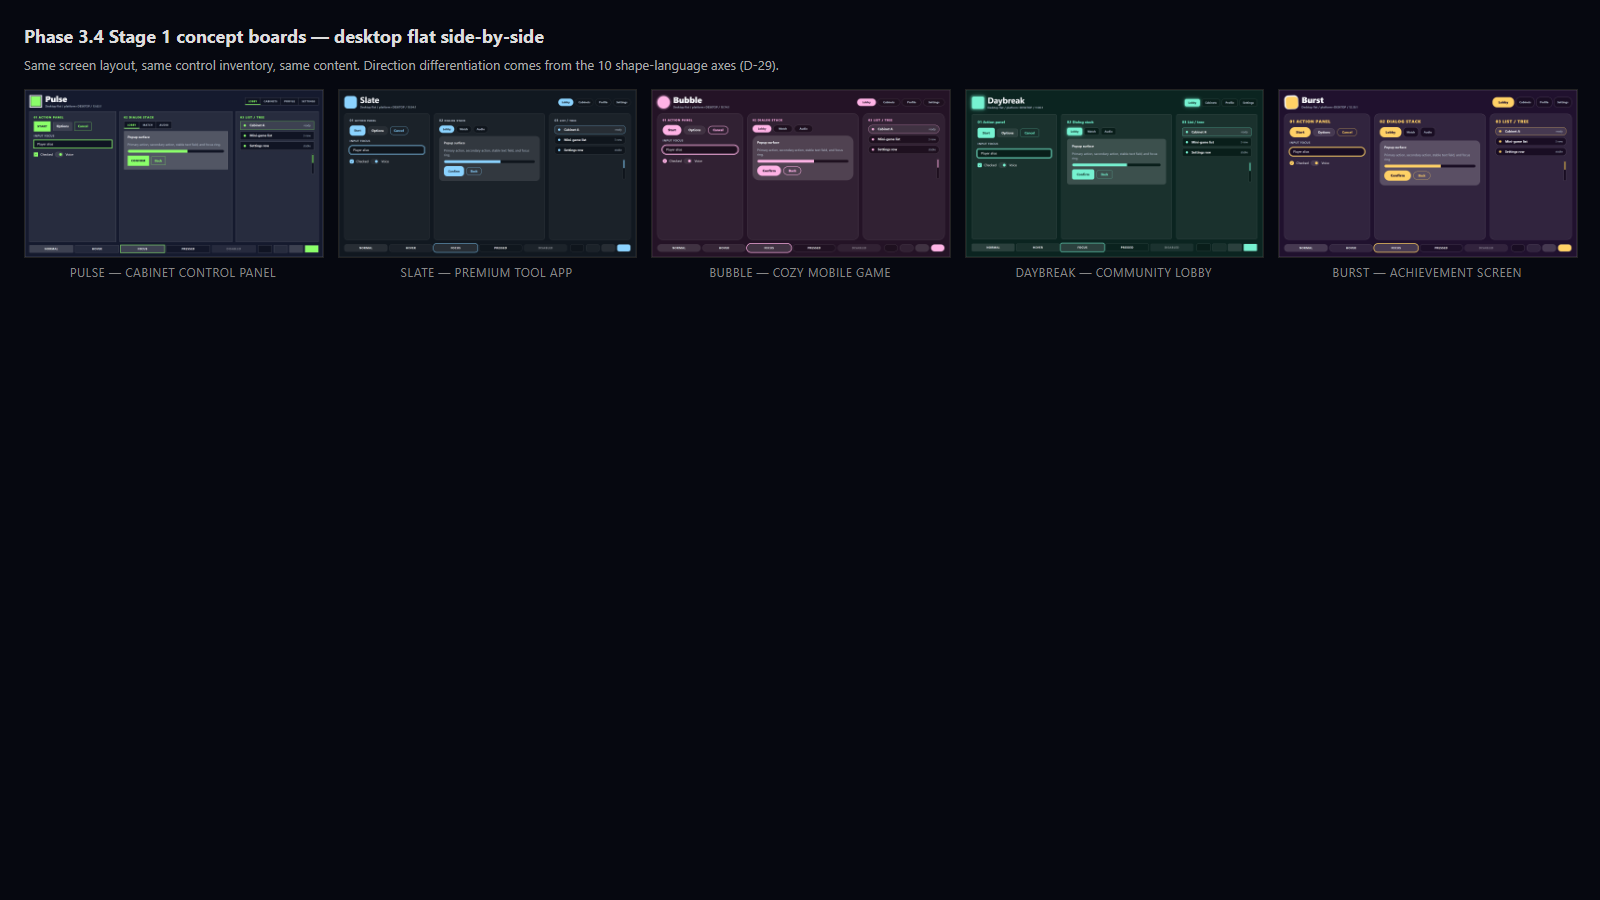
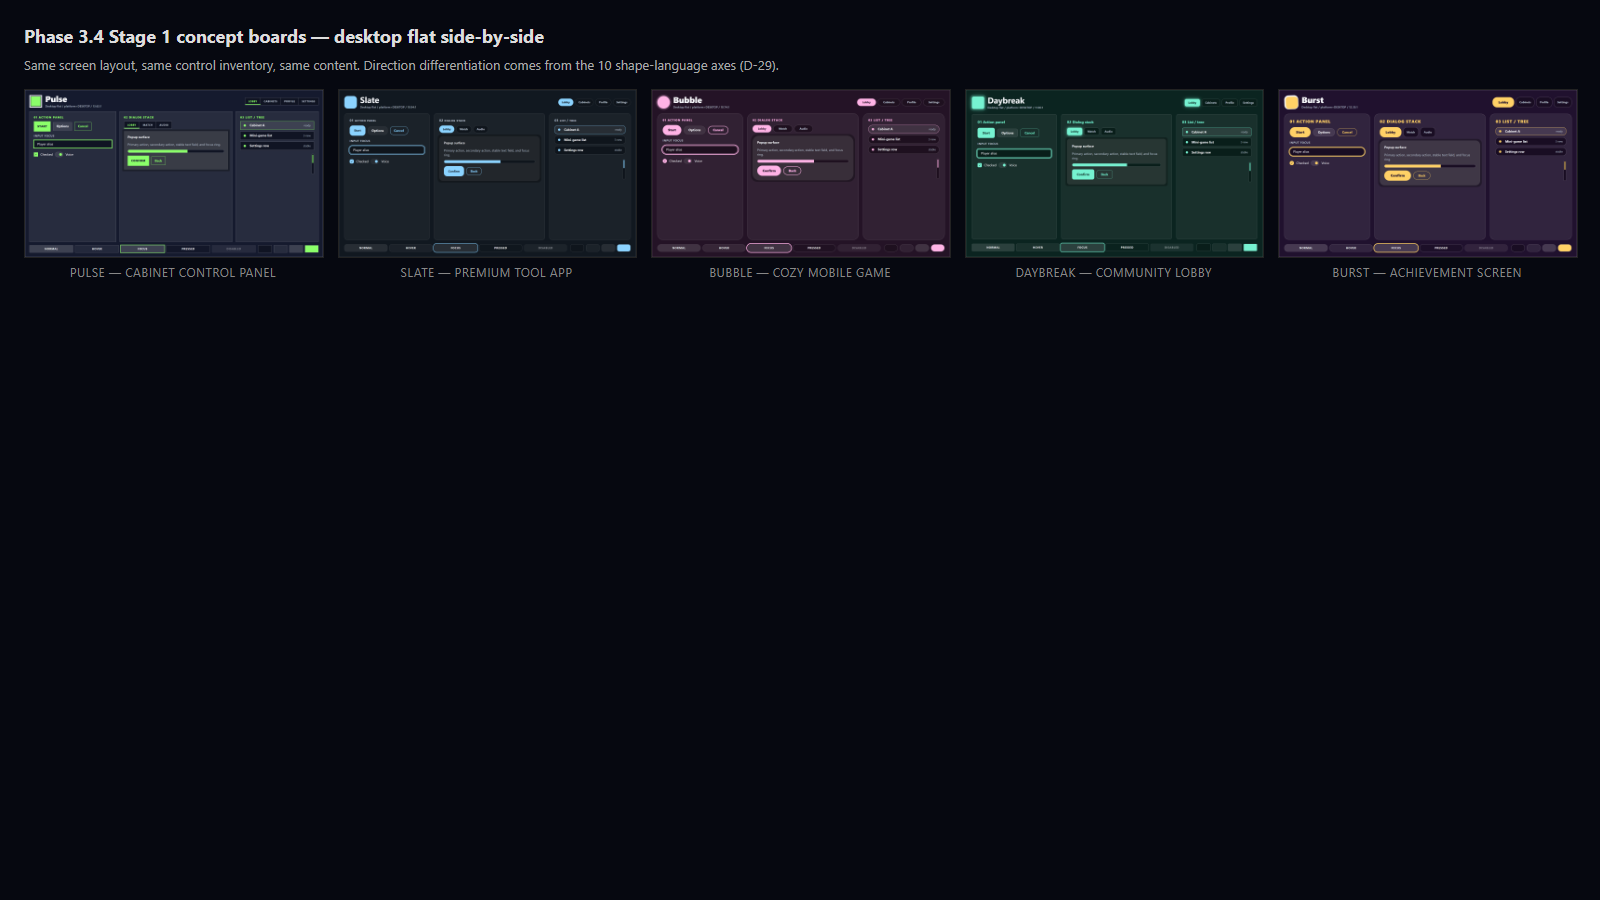
feat(03.4-02): mockup revision 4 — selective alpha for Slate + Daybreak mood tuning
Per MOCKUP-REVISION-4-HANDOFF.md. Adds surface alpha (translucency)
where it enhances each direction's personality, plus a universal modal
scrim that all five directions get for free. Layered on top of rev-3's
color-tinted offset fix; rev-3 had to land first because alpha tuning
on top of black-edged panels would not have fixed the panel issue.

Tier 1 — universal modal scrim (all 5 directions).
.nc-art-dialog::before pseudo-element with inset: -8px,
rgba(0, 0, 0, 0.30), border-radius: inherit, z-index: -1, and
pointer-events: none. .nc-art-dialog gets position: relative +
isolation: isolate to establish a stacking context so the negative
z-index stays contained inside the dialog and does not escape to the
parent panel. The scrim renders in flat AND raised modes — it
represents modal layering, not raised lift. The literal full-page
50%-black scrim is not appropriate at this mockup level because the
dialog lives inside the dialog-stack panel, not as a true modal
overlay; the inset version is the pragmatic mockup-level analogue.
NOT direction-specific — Tier 1 is universal.

Tier 2 — per-direction surface alpha (Slate + Daybreak only).
New axis_11_surface_alpha: { popup_surface, panels, buttons, chrome }
block in each direction's shape_language, declared in
data/directions.json AND the JS NEOCADE_DIRECTIONS shape mirror. Per
the handoff:
  Pulse:    1.00 / 1.00 / 1.00 / 1.00 — solid (cabinet hardware)
  Slate:    0.92 / 1.00 / 1.00 / 1.00 — iOS-style overlay translucency
[…]

Changed region(s): [[0.8438, 0.1556, 0.9375, 0.2178], [0.6562, 0.1556, 0.75, 0.2178], [0.0625, 0.1244, 0.1562, 0.1867]]

diff --git a/.planning/mockups/3.4/src/neocade-mockups.js b/.planning/mockups/3.4/src/neocade-mockups.js
@@ -47,7 +47,10 @@ const NEOCADE_DIRECTIONS = [
       mark_shape: "square-cabinet-bezel",
       primary_strategy: "bold-accent-fill-dark-text",
       ghost_strategy: "accent-outlined-accent-text",
-      focus_style: "tight-cabinet-ring"
+      focus_style: "tight-cabinet-ring",
+      // Rev-4 axis 11: surface alpha policy. Pulse stays 100% solid —
+      // cabinet hardware, not glass UI.
+      surface_alpha: { popup_surface: 1.00, panels: 1.00, buttons: 1.00, chrome: 1.00 }
     }
   },
   {
@@ -85,7 +88,11 @@ const NEOCADE_DIRECTIONS = [
       mark_shape: "rounded-square",
       primary_strategy: "quiet-pill-primary",
       ghost_strategy: "thin-accent-outline",
-      focus_style: "ios-style-offset"
+      focus_style: "ios-style-offset",
+      // Rev-4 axis 11: 8% bleed-through on popup overlay only — iOS-premium
+      // mood mirrors iOS NavigationBar/Sheet/modal-backdrop translucency
+      // without sliding into glassmorphism (no backdrop blur in StyleBoxFlat).
+      surface_alpha: { popup_surface: 0.92, panels: 1.00, buttons: 1.00, chrome: 1.00 }
     }
   },
   {
@@ -123,7 +130,9 @@ const NEOCADE_DIRECTIONS = [
       mark_shape: "circle-or-squircle",
       primary_strategy: "pillowy-fully-rounded-primary",
       ghost_strategy: "rounded-ghost-thicker-outline",
-      focus_style: "cheerful-chunky-ring"
+      focus_style: "cheerful-chunky-ring",
+      // Rev-4 axis 11: candy is opaque. Translucent candy reads as ice/gelatin.
+      surface_alpha: { popup_surface: 1.00, panels: 1.00, buttons: 1.00, chrome: 1.00 }
     }
   },
   {
@@ -160,7 +169,10 @@ const NEOCADE_DIRECTIONS = [
       mark_shape: "rounded-square-with-halo",
       primary_strategy: "friendly-primary-generous-breathing",
       ghost_strategy: "soft-outline-ghost",
-      focus_style: "airy-fresh-ring-with-mint-halo"
+      focus_style: "airy-fresh-ring-with-mint-halo",
+      // Rev-4 axis 11: airy welcoming-lobby mood. 4% bleed on panels + 10% on
+      // popup overlay reads as airy lift; buttons stay solid for tappability.
+      surface_alpha: { popup_surface: 0.90, panels: 0.96, buttons: 1.00, chrome: 1.00 }
     }
   },
   {
@@ -198,7 +210,10 @@ const NEOCADE_DIRECTIONS = [
       mark_shape: "chunky-asymmetric-badge",
       primary_strategy: "oversized-statement-primary",
       ghost_strategy: "normal-accent-ghost",
-      focus_style: "dramatic-event-ring"
+      focus_style: "dramatic-event-ring",
+      // Rev-4 axis 11: celebration posters are solid. Translucent achievement
+      // surfaces feel weak — personality demands poster-grade opacity.
+      surface_alpha: { popup_surface: 1.00, panels: 1.00, buttons: 1.00, chrome: 1.00 }
     }
   }
 ];
@@ -287,6 +302,19 @@ function mix(a, b, amount) {
     g: ca.g + (cb.g - ca.g) * amount,
     b: ca.b + (cb.b - ca.b) * amount
   });
+}
+
+/**
+ * Returns a CSS rgba() string for `hex` at the given alpha (0..1). Used for
+ * rev-4 axis 11 selective-alpha tokens — Slate's popup overlay 92%, Daybreak's
+ * popup 90% + panels 96%, others 100%. Anything at alpha=1.0 is visually
+ * indistinguishable from the source hex; we still emit rgba() so downstream
+ * CSS uses a single bg-token shape (no branching). See
+ * MOCKUP-REVISION-4-HANDOFF.md "Tier 2 — per-direction subtle alpha".
+ */
+function rgba(hex, alpha) {
+  const { r, g, b } = hexToRgb(hex);
+  return `rgba(${r}, ${g}, ${b}, ${alpha})`;
 }
 
 function luminance(hex) {
@@ -449,6 +477,12 @@ function deriveTokens(direction, platformName, raisedFlag) {
    * recommendation in the handoff). Half-mix with white reads as a 1px lighter
    * top edge — the "inner highlight" you see on the user's PLAY-button reference. */
   const accent_rim = mix(accent, "#ffffff", 0.5);
+  /* Rev-4 axis 11: surface alpha policy. Default to fully solid if a direction
+   * predates the axis (defensive — every direction in v1 declares it). Only
+   * popup_surface and panels currently consume alpha; buttons + chrome are
+   * fixed at 1.0 per handoff (Don't-do list — translucent buttons read as
+   * outlined-ghost variants and conflict with all 5 v1 personalities). */
+  const sa = s.surface_alpha || { popup_surface: 1.0, panels: 1.0, buttons: 1.0, chrome: 1.0 };
 
   return {
     "--base": base,
@@ -462,6 +496,16 @@ function deriveTokens(direction, platformName, raisedFlag) {
     "--surface-high": ramp.surface_high,
     "--surface-overlay": ramp.surface_overlay,
     "--outline": ramp.outline,
+    /* Alpha-aware bg tokens (rev-4 axis 11). Consumed by `.nc-art-card` and
+     * `.nc-art-dialog` to render at the per-direction surface_alpha policy.
+     * The base hex tokens (--surface-panel, --surface-overlay) above remain
+     * available for any rule that needs the SOLID color (e.g., the footer
+     * palette swatches in the artboard, where the swatch shows the color
+     * itself, not the rendered alpha). */
+    "--popup-surface-bg": rgba(ramp.surface_overlay, sa.popup_surface),
+    "--panel-surface-bg": rgba(ramp.surface_panel, sa.panels),
+    "--popup-surface-alpha": String(sa.popup_surface),
+    "--panel-surface-alpha": String(sa.panels),
     /* Per-color offset tokens — each raised element's bottom edge is a darker
      * variant of its own bg color (Issue 2). The legacy --offset alias is
      * retained at the base-darker variant for any rule that has not yet been

diff --git a/.planning/mockups/3.4/src/neocade-mockups.css b/.planning/mockups/3.4/src/neocade-mockups.css
@@ -384,6 +384,13 @@ h3 {
   --surface-panel-offset: #07090e;
   --surface-overlay-offset: #141a23;
   --surface-low-offset: #02030a;
+  /* Rev-4 axis 11 fallbacks (alpha-aware bg tokens). JS overrides per
+   * direction. Defaults are fully-opaque so the artboard renders solid if a
+   * direction predates the axis. */
+  --popup-surface-bg: var(--surface-overlay);
+  --panel-surface-bg: var(--surface-panel);
+  --popup-surface-alpha: 1;
+  --panel-surface-alpha: 1;
   --state-hover: #1c2436;
   --state-pressed: #14202c;
   --disabled-opacity: 0.5;
@@ -685,7 +692,10 @@ h3 {
   min-width: 0;
   border: 1px solid var(--outline);
   border-radius: var(--radius-base);
-  background: var(--surface-panel);
+  /* Rev-4 axis 11: alpha-aware bg. Solid for Pulse/Bubble/Burst (1.00); 96% on
+   * Daybreak (airy lobby bleed); 100% on Slate (panels stay solid, only the
+   * popup overlay translucent). */
+  background: var(--panel-surface-bg);
   padding: var(--density-padding);
 }
 
@@ -944,12 +954,44 @@ h3 {
 }
 
 .nc-art-dialog {
+  /* Rev-4 Tier 1 — universal modal scrim. position: relative + isolation:
+   * isolate establishes a stacking context so the ::before scrim's
+   * z-index: -1 stays contained inside the dialog (does not escape to the
+   * parent panel). */
+  position: relative;
+  isolation: isolate;
   display: grid;
   gap: calc(12px * var(--density-scale));
   border: 1px solid var(--outline);
   border-radius: calc(var(--radius-base) + 2px);
-  background: var(--surface-overlay);
+  /* Rev-4 axis 11: alpha-aware bg. 92% on Slate (iOS-style overlay
+   * translucency), 90% on Daybreak (airy lobby), 100% solid on
+   * Pulse/Bubble/Burst (cabinet/candy/poster metaphors favor opacity). */
+  background: var(--popup-surface-bg);
   padding: calc(var(--density-padding) * 0.85);
+}
+
+/* Universal modal scrim (Rev-4 Tier 1) — applies to ALL 5 directions. Renders
+ * a subtle dark halo behind the dialog at 30% opacity, extending 8px past the
+ * dialog edge into the parent panel padding area. Reads as a "lifted" feel
+ * even in flat mode. The literal full-page scrim is not visually appropriate
+ * here because the dialog lives inside the dialog-stack panel, not as a true
+ * modal overlay; the inset version is the pragmatic mockup-level analogue.
+ *
+ * In raised mode this stacks with the dialog's bottom-edge offset shadow.
+ * The 8px-extending scrim covers the area just past the offset, which reads
+ * as a cohesive "modal lift" rather than two separate shadows.
+ *
+ * NOT direction-specific (handoff: "the scrim is a UNIVERSAL behavior. Don't
+ * add per-direction variation here"). */
+.nc-art-dialog::before {
+  content: "";
+  position: absolute;
+  inset: -8px;
+  background: rgba(0, 0, 0, 0.30);
+  border-radius: inherit;
+  z-index: -1;
+  pointer-events: none;
 }
 
 /* Raised: dialog overlay sits highest in the depth hierarchy. Use a stronger

diff --git a/.planning/mockups/3.4/render-check.md b/.planning/mockups/3.4/render-check.md
@@ -1,5 +1,11 @@
 # Phase 3.4 Render Check
 
+**Status (revision 4, 2026-05-06):** Mockup revision 4 complete per `MOCKUP-REVISION-4-HANDOFF.md` — selective surface alpha for mood tuning (`axis_11_surface_alpha`). Adds a universal modal scrim behind dialogs in all 5 directions (Tier 1) plus per-direction surface alpha for Slate (popup overlay 92%) and Daybreak (popup 90% + panels 96%) — Tier 2. Pulse, Bubble, and Burst stay 100% solid (cabinet/candy/poster metaphors favor opacity). 15 concept PNGs + 2 audit composites re-rendered. All rev-3 + rev-2 decisions stand unchanged.
+
+**Rev-4 scope:**
+- Tier 1 — universal modal scrim. `.nc-art-dialog::before` pseudo-element with `inset: -8px` + `rgba(0, 0, 0, 0.30)` extends a subtle dark halo 8px past the dialog edge into the parent panel padding. `position: relative; isolation: isolate;` on `.nc-art-dialog` establishes the stacking context so `z-index: -1` stays contained. Renders in flat AND raised modes — the scrim represents modal layering, not raised lift. The literal full-page scrim (50% black) is not appropriate at this mockup level because the dialog lives inside the dialog-stack panel; the inset variant is the pragmatic mockup-level analogue.
+- Tier 2 — per-direction surface alpha. New `axis_11_surface_alpha: { popup_surface, panels, buttons, chrome }` block in each direction's `shape_language`. JS emits `--popup-surface-bg: rgba(surface_overlay, popup_alpha)` and `--panel-surface-bg: rgba(surface_panel, panels_alpha)`; CSS rules on `.nc-art-dialog` and `.nc-art-card` consume them. Buttons and chrome are fixed at alpha 1.0 (translucent buttons read as outlined-ghost variants and conflict with all 5 v1 personalities; the state-layer alpha system stays as-is).
+
 **Status (revision 3, 2026-05-06):** Mockup revision 3 complete per `MOCKUP-REVISION-3-HANDOFF.md` — surgical fix for the dark-surface near-black bottom-edge bug introduced by rev-2's `darken()` HSL helper. Surface-colored elements (panels, dialogs, popup overlays, brand-mark badge, state-strip cells, unselected tabs, selected list rows) now correctly land color-tinted offsets in their own hue family. 15 concept PNGs + 2 audit composites re-rendered. All other rev-2 decisions (wider radius spread, broader raised matrix, slideshow, platform sizing, mood differentiation) stand unchanged.
 
 **Rev-3 fix:** Replaced `darken(color, 22%)` with `tintTowardBase(color, base, 0.40)` (= `mix(element_color, page_base, 40%)`) for `--accent-offset`, `--surface-panel-offset`, `--surface-high-offset`, `--surface-overlay-offset`, `--surface-low-offset`. The previous formula floored at HSL lightness 0 on already-dark surfaces (e.g., Bubble's `surface_panel` ≈ L=10%; minus 22 clamps to L=0 → near-black), reading as Neobrutalism — the look the user explicitly rejected. The new formula shifts each element 40% toward the page background, preserving hue at every brightness and never crossing past the base. The legacy `--offset` alias still uses `darken()` for a distinct-from-base sentinel (no CSS rule consumes `var(--offset)` today).
@@ -28,6 +34,8 @@
 | Artboard CSS does NOT hard-code shape tokens | PASS | `.nc-artboard` reads `var(--radius-base)`, `var(--button-pad-h)`, etc.; no `--radius: 12px` literal anywhere on the artboard or board path. |
 | Artboard CSS does NOT hard-code platform sizes | PASS | `.nc-art-button` reads `var(--button-min)`; `.nc-art-input` reads `var(--input-min)`; `.nc-art-list-row` reads `var(--row-min)`; etc. `.nc-artboard.mobile` only overrides physical width/height, not control sizes. |
 | Per-color offset tokens emitted | PASS | `deriveSurfaceRamp()` emits `accent_offset`, `surface_high_offset`, `surface_panel_offset`, `surface_overlay_offset`, `surface_low_offset` via `tintTowardBase(hex, base, 0.40)` (rev-3 — replaces rev-2's `darken()` which clamped to near-black on already-dark surfaces). Each offset is `mix(element_color, page_base, 40%)`, preserving hue at every brightness. |
+| Axis 11 surface alpha emitted (rev-4) | PASS | Every direction declares `axis_11_surface_alpha: { popup_surface, panels, buttons, chrome }` in `data/directions.json` shape_language and the JS shape mirror. `deriveTokens()` emits `--popup-surface-bg: rgba(surface_overlay, popup_alpha)` and `--panel-surface-bg: rgba(surface_panel, panels_alpha)` as inline CSS variables; `.nc-art-card` and `.nc-art-dialog` consume the new bg tokens. Buttons + chrome are fixed at alpha 1.0 per handoff (translucent buttons would conflict with the v1 personalities). |
+| Universal modal scrim emitted (rev-4) | PASS | `.nc-art-dialog::before` pseudo-element with `position: absolute; inset: -8px; background: rgba(0,0,0,0.30); z-index: -1; border-radius: inherit; pointer-events: none;`. `.nc-art-dialog` gets `position: relative; isolation: isolate;` to establish a stacking context so the negative z-index stays contained inside the dialog. Renders in flat AND raised modes (modal layering, not raised lift). |
 | Slideshow component bound | PASS | `concept-gallery.html` includes `<section class="nc-slideshow">`; `bindSlideshow()` wires arrows + keyboard + tabs; image transition is `none !important`. |
 | Flat concept output path | PASS | `concept-image.html?raised=false` renders the flat artboard. |
 | Raised concept output path | PASS | `concept-image.html?raised=true` renders the raised artboard with broad raise matrix and per-color offsets. |
@@ -55,6 +63,7 @@
 | 8 surface ramp | 4 stops, wide spread | strong tonal hierarchy visible |
 | 9 state behavior | hover +6%, pressed -10%, disabled 0.42 | tactile, mechanical |
 | 10 raised offset | primary 3 / tab 2 / row 0 / secondary 1; broad matrix lifts buttons + panels + dialogs + brand mark + tabs + chips + thumb + check + progress | flat-3D depth on every interactable; passive elements stay flat |
+| 11 surface alpha (rev-4) | popup 100% / panels 100% / buttons 100% / chrome 100% — solid | Cabinet hardware is opaque; translucent cabinets would read as futuristic glass UI, not arcade machine |
 
 | Audit row | Result | Note |
 |---|---|---|
@@ -82,6 +91,7 @@
 | 8 surface ramp | 3 stops, narrow spread | calm continuous tonal feel |
 | 9 state behavior | hover +4%, pressed -6%, disabled 0.50 | quiet, not aggressive |
 | 10 raised offset | primary 2 / tab 1 / row 1 / secondary 1; restrained but broad matrix | tool-friendly subtle depth on every interactable |
+| 11 surface alpha (rev-4) | popup 92% / panels 100% / buttons 100% / chrome 100% — iOS-style overlay translucency | Subtle 8% bleed-through visible behind the popup surface only; mirrors iOS NavigationBar/Sheet/modal-backdrop translucency. The premium-tool restraint stays intact because container panels remain solid |
 
 | Audit row | Result | Note |
 |---|---|---|
@@ -109,6 +119,7 @@
 | 8 surface ramp | 3 stops, medium spread | playful soft layers |
 | 9 state behavior | hover +8% (bouncy), pressed -10%, disabled 0.45 | feels alive |
 | 10 raised offset | primary 6 / tab 4 / row 3 / secondary 3 (was 5/3/2/2 in rev 1); broad matrix | "poked-out" tactile depth on every interactive element — the user's PLAY-button reference vibe |
+| 11 surface alpha (rev-4) | popup 100% / panels 100% / buttons 100% / chrome 100% — solid | Candy is opaque; translucent candy reads as ice/gelatin and shifts the mood toward sci-fi/glassmorphism |
 
 | Audit row | Result | Note |
 |---|---|---|
@@ -136,6 +147,7 @@
 | 8 surface ramp | 4 stops, medium spread | airy fresh layers |
 | 9 state behavior | hover +6%, pressed -6%, disabled 0.50 | soft, friendly response |
 | 10 raised offset | primary 3 / tab 2 / row 1 / secondary 1 (was 3/2/0/0 in rev 1); broad matrix | tactile but spare; broader than rev 1 |
+| 11 surface alpha (rev-4) | popup 90% / panels 96% / buttons 100% / chrome 100% — airy lobby | Subtle 4% translucency through the action-panel + dialog-stack + list/tree containers (the dark teal page bleeds through gently); stronger 10% on the popup overlay; buttons stay solid for tappability |
 
 | Audit row | Result | Note |
 |---|---|---|
@@ -163,6 +175,7 @@
 | 8 surface ramp | 4 stops, wide spread | dramatic layered emphasis |
 | 9 state behavior | hover +8%, pressed -12% (bold), disabled 0.45 | strong press feedback |
 | 10 raised offset | primary 5 / tab 3 / row 2 / secondary 2; broad matrix | clear depth hierarchy |
+| 11 surface alpha (rev-4) | popup 100% / panels 100% / buttons 100% / chrome 100% — solid | Celebration posters are solid; translucent achievement surfaces feel weak, not bold — the personality demands poster-grade opacity |
 
 | Audit row | Result | Note |
 |---|---|---|
@@ -224,6 +237,24 @@ Each direction now visibly differentiates desktop and mobile, per Issue 6. The c
 | Bubble | Desktop: 36-44px 26px-rounded chrome with 999px primary pill. Mobile: 48-56px chrome with bigger pill primary at 56px (M3 Extended FAB), chunkier toggles, generous spacing. Mobile-raised primary button pink with darker-pink offset reads decisively as "candy machine" not "Neobrutalism". | PASS |
 | Daybreak | Desktop: 36-44px 8px-rounded chrome with sentence-case kickers. Mobile: 48-56px chrome, brighter mint halos preserved, 56px list rows. Airy density rule (+50% gap) most visible here because of the already-airy base spacing. | PASS |
 | Burst | Desktop: 36-44px chrome with oversized 28px primary radius. Mobile: 48-56px chrome, asymmetric selected tab visibly bigger on mobile due to the size scaling, chunky tilted brand mark unchanged across platforms. Most expressive shape language stays expressive at both sizes. | PASS |
+
+## Surface-Alpha Policy Audit (revision 4)
+
+Per `MOCKUP-REVISION-4-HANDOFF.md`. Each direction declares an `axis_11_surface_alpha` block in `data/directions.json`/`shape_language` with four entries: `popup_surface`, `panels`, `buttons`, `chrome`. The first two are consumed by `.nc-art-dialog` and `.nc-art-card` via `--popup-surface-bg` and `--panel-surface-bg` (rgba tokens emitted by `deriveTokens()`). Buttons and chrome remain fixed at alpha 1.0 — the handoff explicitly forbids translucent buttons (would read as outlined-ghost variants and conflict with every v1 personality) and translucent state-layer overlays (the existing `--state-hover` / `--state-pressed` mix system is correct as-is).
+
+| Direction | Surface alpha policy | Visible in renders |
+|---|---|---|
+| Pulse | popup 100%, panels 100%, buttons 100%, chrome 100% — solid (cabinet hardware) | All container panels and the popup surface render fully opaque. Translucent cabinets would read as futuristic glass UI, not arcade machine — wrong personality. |
+| Slate | popup 92%, panels 100%, buttons 100%, chrome 100% — iOS-style overlay translucency | Subtle 8% bleed-through visible behind the popup surface only. Container panels stay solid. Mirrors iOS NavigationBar/Sheet/modal-backdrop translucency without crossing into glassmorphism (Godot StyleBoxFlat does not support backdrop blur, and shaders/textures are anti-features). |
+| Bubble | popup 100%, panels 100%, buttons 100%, chrome 100% — solid (candy is opaque) | All container panels and the popup surface render fully opaque. Translucent candy reads as ice/gelatin and shifts the mood toward sci-fi — wrong personality for the playful candy-counter feel. |
+| Daybreak | popup 90%, panels 96%, buttons 100%, chrome 100% — airy lobby | Subtle 4% translucency visible through the action-panel + dialog-stack + list/tree containers (the dark teal page bleeds gently through). Stronger 10% translucency on the popup overlay. Buttons stay solid so interactive elements remain defined and tappable. |
+| Burst | popup 100%, panels 100%, buttons 100%, chrome 100% — solid (poster-bold) | All container panels and the popup surface render fully opaque. Celebration posters are solid; translucent achievement surfaces feel weak, not bold — the personality demands poster-grade opacity. |
+| Universal modal scrim | All 5 directions get `.nc-art-dialog::before` with `inset: -8px`, `rgba(0, 0, 0, 0.30)`, `z-index: -1`, `border-radius: inherit` | A subtle dark halo extends 8px past the dialog edge into the parent panel padding area. In flat mode this reads as a "lifted modal" rim; in raised mode it stacks with the bottom-edge offset shadow (rev-3 `--surface-overlay-offset`) for compounded modal depth. Rendered in all 5 directions identically — Tier 1 is universal, no per-direction variation. |
+
+What stays out of scope (per handoff "Don't" list):
+- No alpha on button surfaces in any direction — the MD3 outlined-button variant is a separate conceptual style that conflicts with all 5 v1 personalities.
+- No alpha on hover/pressed state layers — the existing `--state-hover` / `--state-pressed` mix is correct.
+- No 6th wireframe/HUD direction — Phase 3.3 approval is locked. A wireframe direction is queued for v1.x (transparent fills + strong colored borders, "futuristic UI / AR overlay / schematic" mood); architecture supports adding it as a new `.tres` without code changes. Defer.
 
 ## Concept Render Evidence
 
